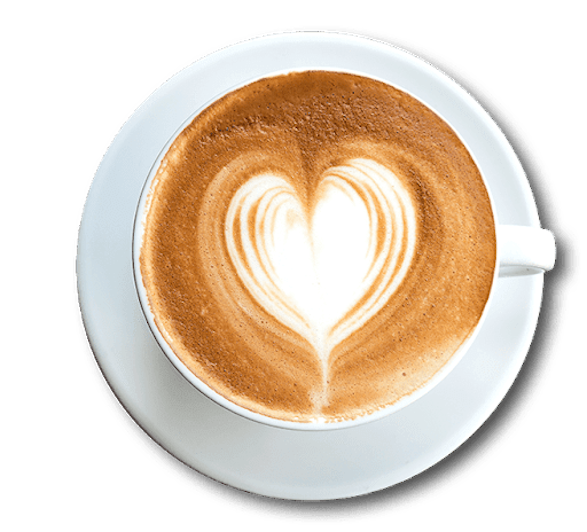
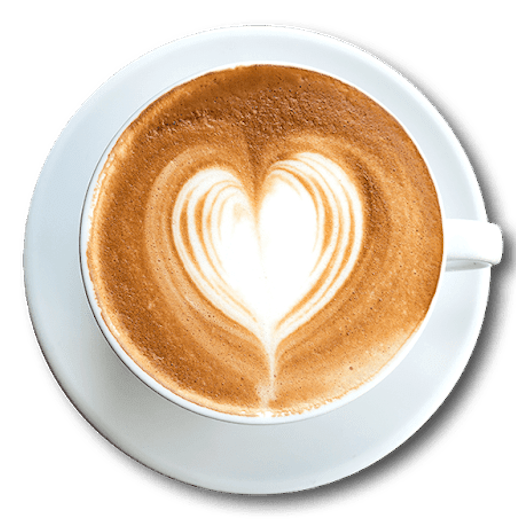
CircleColorChange

diff --git a/style.css b/style.css
@@ -8,6 +8,14 @@
     font-family: 'Poppins', sans-serif;
 }
 
+:root
+{
+    --black: #333;
+    --black2: #333;
+    --white: #fff;
+    --white2: #fff;
+    --yellow: #FFBA5C;
+}
 section
 {
     position: relative;
@@ -17,7 +25,7 @@ section
     display: flex;
     justify-content: space-between;
     align-items: center;
-    background-color: #fff;
+    background: var(white);
 }
 
 header
@@ -44,6 +52,7 @@ header  ul
     display: flex;
 }
 
+
 header ul li
 {
     list-style: none; 
@@ -53,9 +62,9 @@ header ul li
 header ul li a
 {
     display: inline-block;
-    color: #47525E;
-    font-weight: 400;
-    margin-left: 40px;
+    color: var(--black);
+    font-weight: 600;
+    margin-right: 70px;
     text-decoration: none;
 }
 
@@ -72,27 +81,29 @@ header ul li a
 {
     position: relative;
     max-width: 600px;
+    z-index: 2;
+    margin-right: 20px;
     color: black;
 }
 
 .content .textBox h2
 {
-    color: #47525E;
-    font-size : 4em;
-    line-height: 1.4em;
-    font-weight: 500;
+    color: var(--black);
+    font-size : 3em;
+    line-height: 1.2em;
+    font-weight: 700;
+    margin-bottom: 10px;
 }
 
 .content .textBox h2 span
 {
-    color: #FFBA5C;
+    color: var(--yellow);
     font-size: 1.4em;
-    font-weight: 900;
 }
 
 .content .textBox p
 {
-    color: #47525E;
+    color: var(--black);
 }
 
 .content .textBox a
@@ -100,8 +111,8 @@ header ul li a
     display: inline-block;
     margin-top: 20px;
     padding: 8px 20px;
-    background: #FFBA5C;
-    color: #fff;
+    background: var(--yellow);
+    color: var(--white2);
     border-radius: 40px;
     font-weight: 500;
     letter-spacing: 1px;
@@ -109,17 +120,30 @@ header ul li a
 }
 
 .content .imgBox
-{
+{   
+    position: relative;
     width: 600px;
     display: flex;
-    justify-content: flex-end;
-    padding-right: 50px;
-    margin-top: 50px;
+    justify-content: center;
+    align-items: center;
+}
+
+.content .circle
+{
+    position: absolute;
+    width: 550px;
+    height: 550px;
+    background: #FFBA5C;
+    border-radius: 100%;
+
 }
 
 .content .imgBox img
-{
-    max-width: 540px;
+{   
+    position: relative;
+    z-index: 1;
+    width: 434px;
+    max-width: 434px;
 }
 
 .thumb
@@ -152,9 +176,8 @@ header ul li a
 .sci
 {
     position: absolute;
-    top: 50%;
+    top: 35%;
     right: 30px;
-    transform: translateY(-50%);
     display: flex;
     justify-content: center;
     align-items: center;
@@ -170,17 +193,23 @@ header ul li a
 {
     display: inline-block;
     margin: 5px 0;
-    transform: scale(0.6);
+    width: 50px;
+    height: 50px;
+    background:var(--black2);
+    color: var(--white2);
+    border-radius: 50%;
+    display: flex;
+    justify-content: center;
+    align-items: center;
+    text-decoration: none;
 }
 
-.circle
+.sci li a .fa
 {
-    position: absolute;
-    top: 130px;
-    left: 780px;
-    width: 584px;
-    height: 584px;
-    background-color: #FFBA5C;
-    border-radius: 100%;
+    font-size: 1.2emx;
+}
 
+.sci li a:hover
+{
+    background: var(--yellow);
 }

diff --git a/index.html b/index.html
@@ -6,12 +6,12 @@
     <meta name="viewport" content="width=device-width, initial-scale=1.0">
     <title>Document</title>
     <link rel="stylesheet" href="style.css">
+    <link rel="stylesheet" href="https://cdnjs.cloudflare.com/ajax/libs/font-awesome/4.7.0/css/font-awesome.css" integrity="sha512-5A8nwdMOWrSz20fDsjczgUidUBR8liPYU+WymTZP1lmY9G6Oc7HlZv156XqnsgNUzTyMefFTcsFH/tnJE/+xBg==" crossorigin="anonymous" referrerpolicy="no-referrer" />
 <body>
     <section>
-        <div class="circle"></div>
         <header>
             <a href="#"><img src="./assets/logo.png" class="logo"></a>
-            <ul>
+            <ul class="navigation">
                 <li><a href="#">Home</a></li>
                 <li><a href="#">Menu</a></li>
                 <li><a href="#">About Us</a></li>
@@ -25,20 +25,31 @@
                 <a href="#">Learn More</a> 
             </div>
             <div class="imgBox">
-                <img src="/assets/img1.png" class="Coffee">
+                <img src="/assets/img1.png" class="coffee">
+                <div class="circle"></div>
             </div>
         </div>
         <ul class="thumb">
-            <li><img src="/assets/thumbnail1.png"></li>
-            <li><img src="/assets/thumbnail2.png"></li>
-            <li><img src="/assets/thumbnail3.png"></li>
-            <li><img src="/assets/thumbnail4.png"></li>
+            <li><img src="/assets/thumbnail1.png" onclick="imgSlider('/assets/img1.png');changeCircleColor('#FFBA5C')"></li>
+            <li><img src="/assets/thumbnail2.png" onclick="imgSlider('/assets/img2.png');changeCircleColor('#967969') "></li>
+            <li><img src="/assets/thumbnail3.png" onclick="imgSlider('/assets/img3.png');changeCircleColor('#bdab98')"></li>
+            <li><img src="/assets/thumbnail4.png" onclick="imgSlider('/assets/img4.png');changeCircleColor('#b39f7a')"></li>
         </ul>
         <ul class="sci">
-            <li><a href="#"><img src="assets/instagram.png"></a></li>
-            <li><a href="#"><img src="assets/facebook.png"></a></li>
-            <li><a href="#"><img src="assets/twitter.png"></a></li>
+            <li><a href="#"><i class="fa fa-instagram" aria-hidden="true"></i></a></li>
+            <li><a href="#"><i class="fa fa-twitter" aria-hidden="true"></i></a></li>
+            <li><a href="#"><i class="fa fa-facebook" aria-hidden="true"></i></a></li>
         </ul>
     </section>
+
+    <script type="text/javascript">
+        function imgSlider(anything){
+            document.querySelector('.coffee').src = anything;
+        }
+        function changeCircleColor(background){
+            const circle = document.querySelector('.circle');
+            circle.style.background = background;
+        }
+    </script>
 </body>
 </html>
